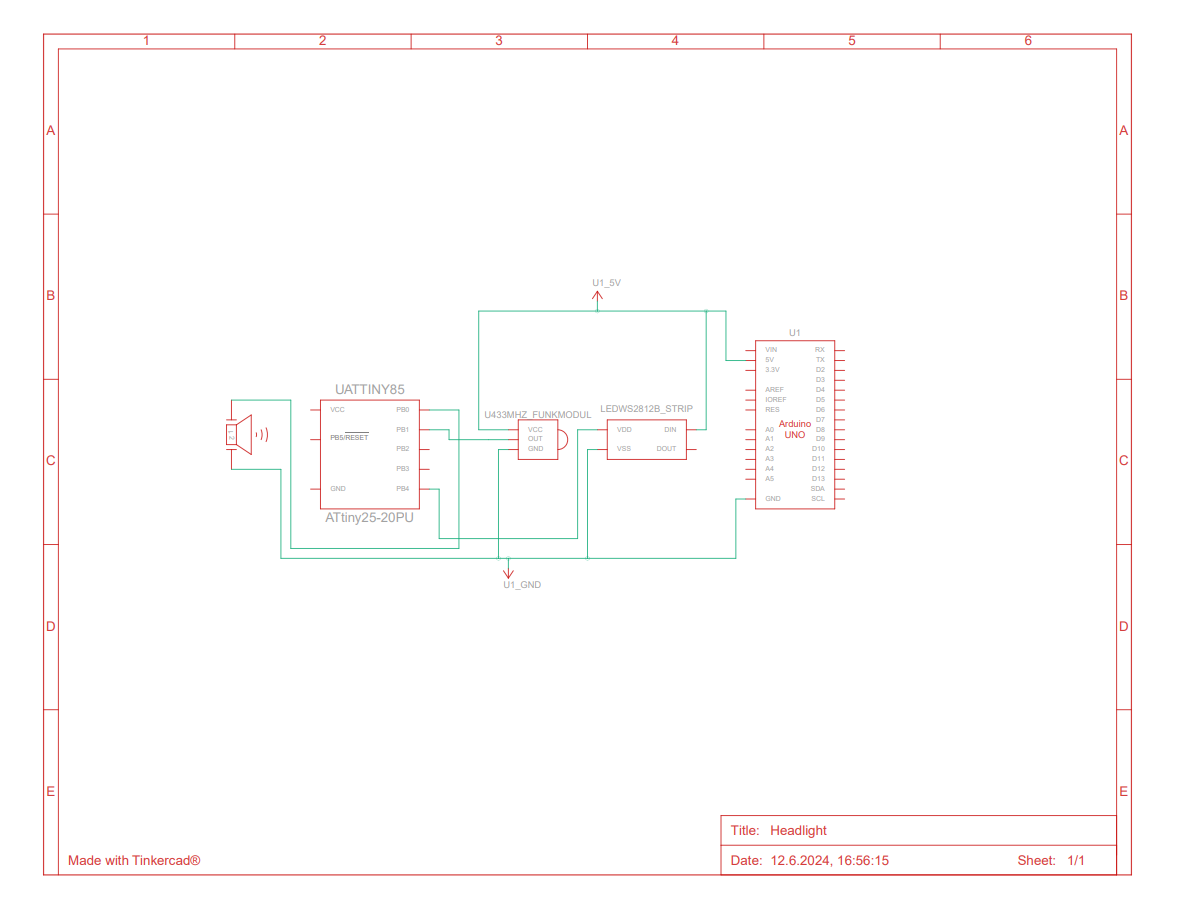
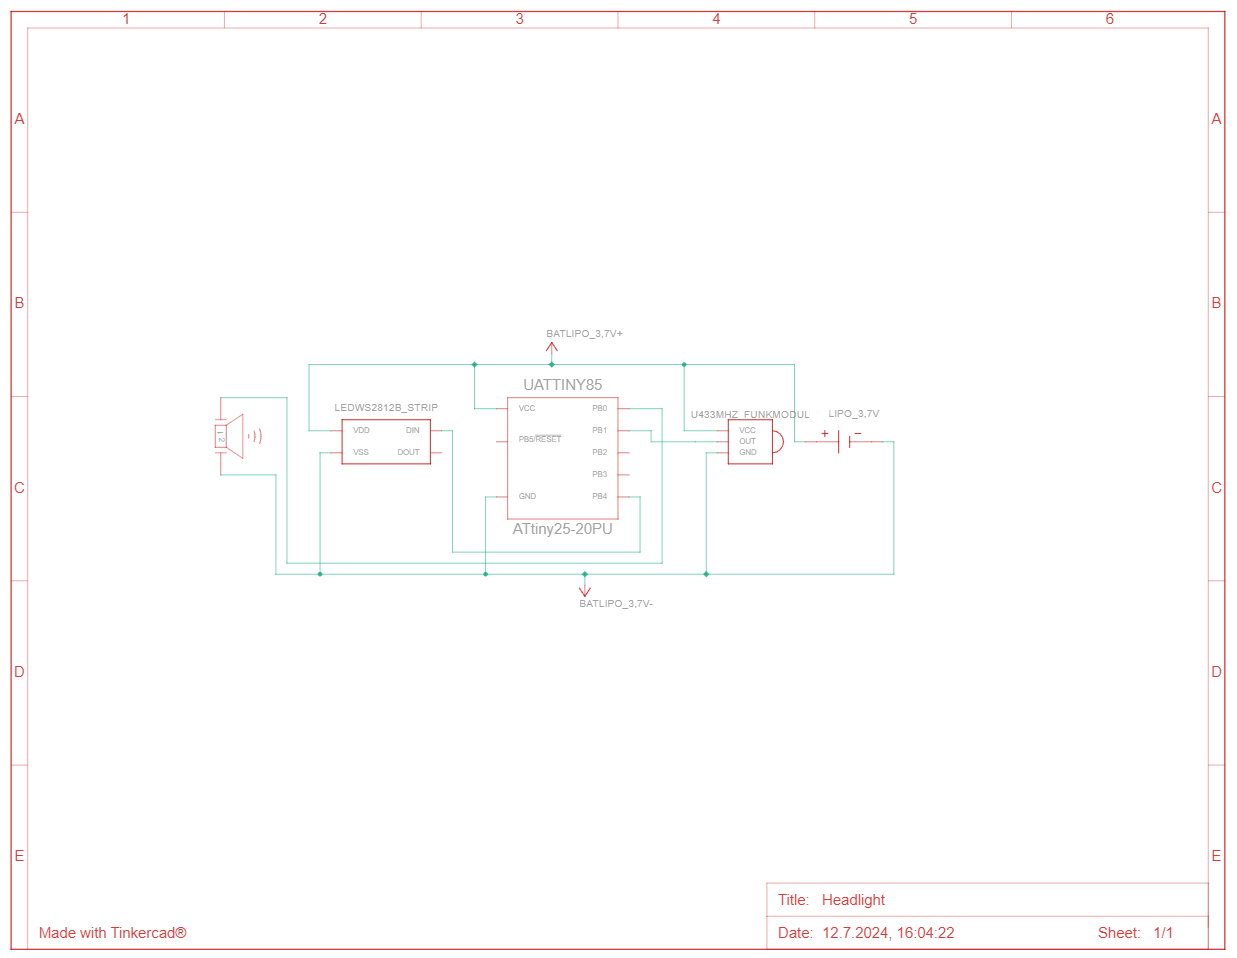
Doku nachgearbeitet

Changed region(s): [[0.0, 0.0, 1.0, 1.0], [0.1529, 0.307, 0.7341, 0.6447]]

diff --git a/readme_de.md b/readme_de.md
@@ -1,0 +1,77 @@
+
+# Das Helmlicht
+Der Fahrradhelm Modell Hud-Y von Abus ähneln dem eines Roboterkopfes. Als Fan von Filmen wie Robocop defenitiv ein Kaufgrund. Die Helme dieses Modells haben ein Rücklicht integriert, das Leuchten und Blinken kann und das entfernt werden kann! Doch wenn man schon einen Robotorhelm hat und ein Rücklicht vorhanden ist, warum soll es dann nicht aussehen wie die "Augen" der Zylonen aus Battlestar Galactica? Und das Rücklicht könnte auch beim Abbiegen blinken, so wie es Motorräder oder Autos machen.
+Um das Umzusetzen, habe ich eine Box für die Ausparung im Helm als 3D Modell konstruiert, in dem ein ATtiny85 arbeitet. Dieser steuert einen WS2812B LED Strip, einen Piezo Summer und lässt sich über ein 433Mhz Empfängermodul steuern.
+
+Mit einer programmierbaren 433Mhz Standardfernbedienung wird das Rücklicht angesteuert und die Fahrrichtung durch Blinken angezeigt. Der Summer gibt das Feedback an den Fahrer, dass der Blinker an ist.
+
+
+<img src="doc/Vorfuehrung_Offstreet-Tiny.gif" width=700>
+
+
+# Stückliste
+Folgende Teile werden verbaut:
+Bauteil               | Beschreibung | Quelle | Kosten
+--------              |--------------|------- | -----
+Mikroprozessor  | ATTINY 85-20 PU      | [reichelt](https://www.reichelt.de/8-bit-attiny-avr-risc-mikrocontroller-8-kb-20-mhz-dip-8-attiny-85-20-pu-p69299.html) | 1,70€
+IC-Sockel             | GS 8P IC-Sockel, 8-polig| [reichelt](https://www.reichelt.de/ic-sockel-8-polig-superflach-gedreht-gs-8p-p8231.html) | 0,30€
+Piezo Speaker         | DC-Signalgeber, 85dB | [reichelt](https://www.reichelt.de/dc-signalgeber-85db-2300-hz-3-v-pb12n23mpw03aq-p360872.html)| 0,92€
+433Mhz Receiver | 433Mhz Superheterodyne RXB14| [ebay](https://www.ebay.de/itm/263855073600?var=563220548601)|1,19€
+Schiebeschalter | Mini Schiebeschalter SS2212F15VG6 3 Pol, 2 Gänge| [ebay](https://www.ebay.de/itm/315307042120?var=613779717314)| 2,20€*
+Lipo Lademodul|  USB-C 18650 tp4056 Lithium-Batterie Lademodul | [aliexpress](https://de.aliexpress.com/item/1005005982385924.html)| 1,37€
+Lipo Akku| 3,7 V 150-300mAh Lipo-Batterien mit PCM| [aliexpress](https://de.aliexpress.com/item/1005006680244682.html)| 1,43€
+LED Strip| WS2812 144LEDs/meter Schwarz IP65, 12mm| [amazon](https://www.amazon.de/dp/B088JPLP2H)| 15,99€*
+Magnete | Neodym Magnete 8x2mm| [amazon](https://www.amazon.de/dp/B0CPJ1GJKS)| 6,99€*
+JST Stecker |  Micro JST 1,25mm 2 Pin Male & Female| [aliexpress](https://de.aliexpress.com/item/1005004732865407.html)| 2,44€*
+PCB Board | PCB Board KitsDoppelseitig| [amazon](https://www.amazon.de/gp/product/B09NDNPF91)| 9,99€*
+Funkfernbedienung| Programmierbare Funkfernbedienung 433Mhz| [aliexpress](https://de.aliexpress.com/item/1005006065464456.html)| 3,09€
+Sonstiges|Kabel, Filament, Schrauben 
+*) Set oder Meterpreise (06/2024)
+
+
+<img src="doc/PartOverview.jpg" width=700><img src="doc/LED-Strip.jpg" width=700>
+
+Ausserdem sind noch ein 3D-Drucker und ein Lötkolben erforderlich.
+
+# Programmieren
+
+## Schritt für Schritt
+1. Fuse des ATtiny richtig setzen über PlatformIO/Project Tasks/Attiny_Helmlich/Platform/Set Fuses
+
+# Utils
+## BlickTest
+Um den Arduino der eingesetzt werden soll zu testen wird dieses simple Programm verwendet. Es steuert eine LED an und lästs diese Blinken. Dies ist ein Smoketest, ob der 
+eingesetzt Prozessor funktioniert hinsichtlich Programmierung, Ausführung und Ansteuerung
+
+## RemoteDecoder
+Für das Programm werden zwei LEDs und ein 433RX Board benötigt. Zusätzlich noch eine Fernbedienung. Es dient dazu die Codes der Funkfernbedienung auszulesen und zwar so wie der ATTiny diese mit der lib RCSwitch interpretiert. 
+
+# Tipps und Tricks
+## Timmings und Clock
+https://community.platformio.org/t/attiny-8mhz-wrong-timing-in-delay-fastled-and-neopixel/24992/4
+HIer werden Probleme angesprochen, dass der delay nicht rictig fuktioniert weil die CPU unter 1Mhz läuft bei eingestellten 8 
+!! Es kann auch ein Grund dafür sein, dass der NEOPiXEL nicht meh rrichtig klappt
+
+Auf dieser Seite gibt es einen Taktrechner: https://www.engbedded.com/fusecalc/
+
+## RX Nodule
+Der XY-MK-5V ist das Standardmodul für 433Mhz Funkübertragung meist im Set mit dem FS1000A, Der Sender und der Empfäger sind relative primitive Konstruktionen, bei der eine Spule in Schwingung versetzt wird und diese Schwingung beim RX Modul verstärkt an dem Datenpin angelegt wird.
+Der XY-MK-5V ist ein Pendlerempfaenger, mit einer sehr geringen Reichweite. Ausserdem scheint er kein sauberes Signal zu liefern, so dass ein Sender in unmittelbarer Entfernung zum Empfänger stehen muss. Desweiteren braucht der Empfänger zwingen mehr als 3V Spannung, um zu funktionieren. 
+Besser sind hier Superheterodyne Empfänger die auch bei 3V saubere Ergebisse erzielen. Hervorrangend. der RXB14, dieser hat eine sehr kleine Bauform und arbeitet zuverlässig schon bei 3V und kann damit auch mit einer Knopfzelle betrieben werden. Der Verbrauch würde dabei bei ca. 6.88 mW liegen. Bei einer Kapazität einer Cr2032 von 0,22 Ah wären ein Betrieb von 95 Stunden also ca 4 Tagen Dauerbetrieb möglich.
+
+
+## Funktionserklärung rc-switch
+### ATtiny 
+Für den ATtiny wurden extra der Boolean RCSwitchDisableReceiving auf true gesetzt weil angeblich udivmodhi4 fehlt. Allerdings ist dies mit der ATtinycore lib auch nicht nötig. Es funktioniert also auch ohne. Aller dings muss die einbettung in das Interupt Magement geändert werden da der Arduino Befehl attachInterrupt hier nicht funktioniert. Also diese Zeile auskommentieren und RCSwitchDisableReceiving ebenso der Aufruf interruptChange(), da diesem beim ATtiny nicht gibt.
+
+### Signalverarbeitung
+Die Herausfoderung bei der Signalverarbeitung ist es zuerst die Störungen herauszufiltern und dann das Signal korrekt zu interpretieren. Dies wird wie folgt gemacht:
+- Es wird ein Array vorbereitet, in dem die identifizierten Signale(die dauer dieser) gespeichert werden
+- Die Funktion handleInterrupt wird in die Interuptverarbeitung eingehängt.
+  - Abstand seit dem letzten Aufruf bestimmen
+  - Wenn der Abstand seit dem letzten Aufruf länger als 4300 micros ist (eine Signallücke) dann
+    - wird der Cursor für das Array der Signal zurückgesetzt (egal was vorher war)
+    - wenn das eine Signallücke ist (am Anfang oder zwischen den Signalen) und diese schon das zweite mal auftritt
+      - dann könnte eine ganze Signalkette vorliegen, diese wird an receiveProtocol weitergegeben zum analysiere
+    
+
